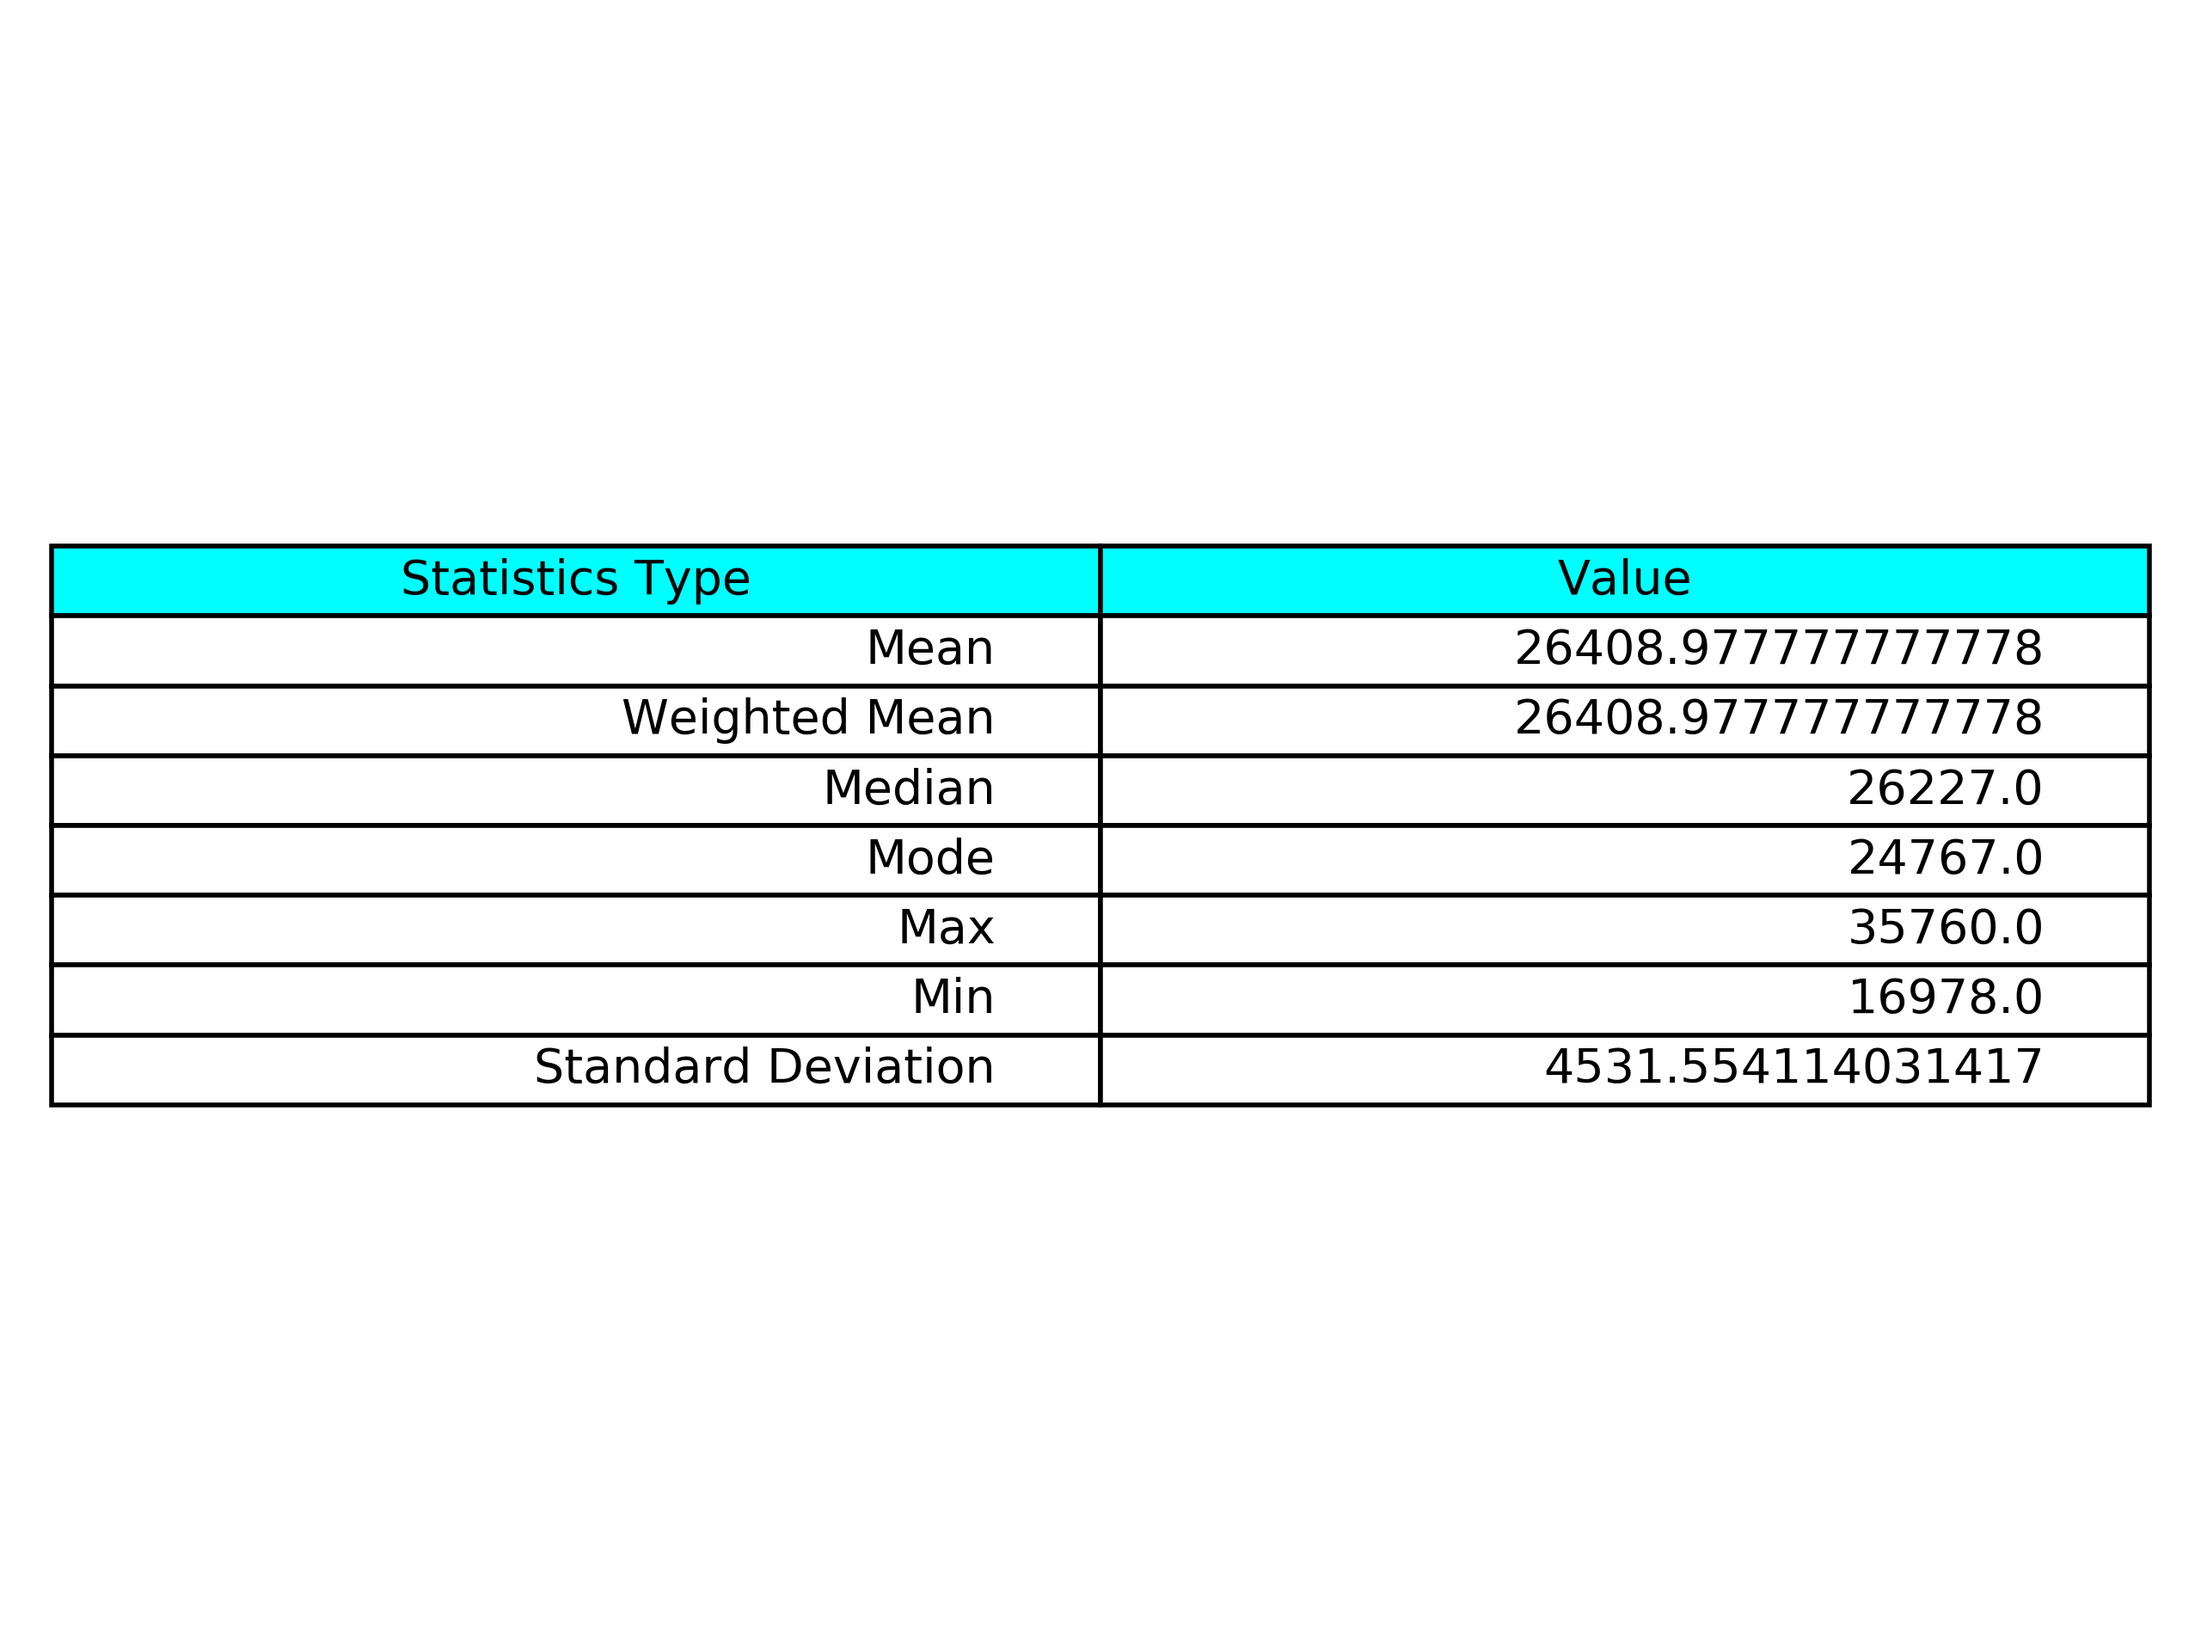
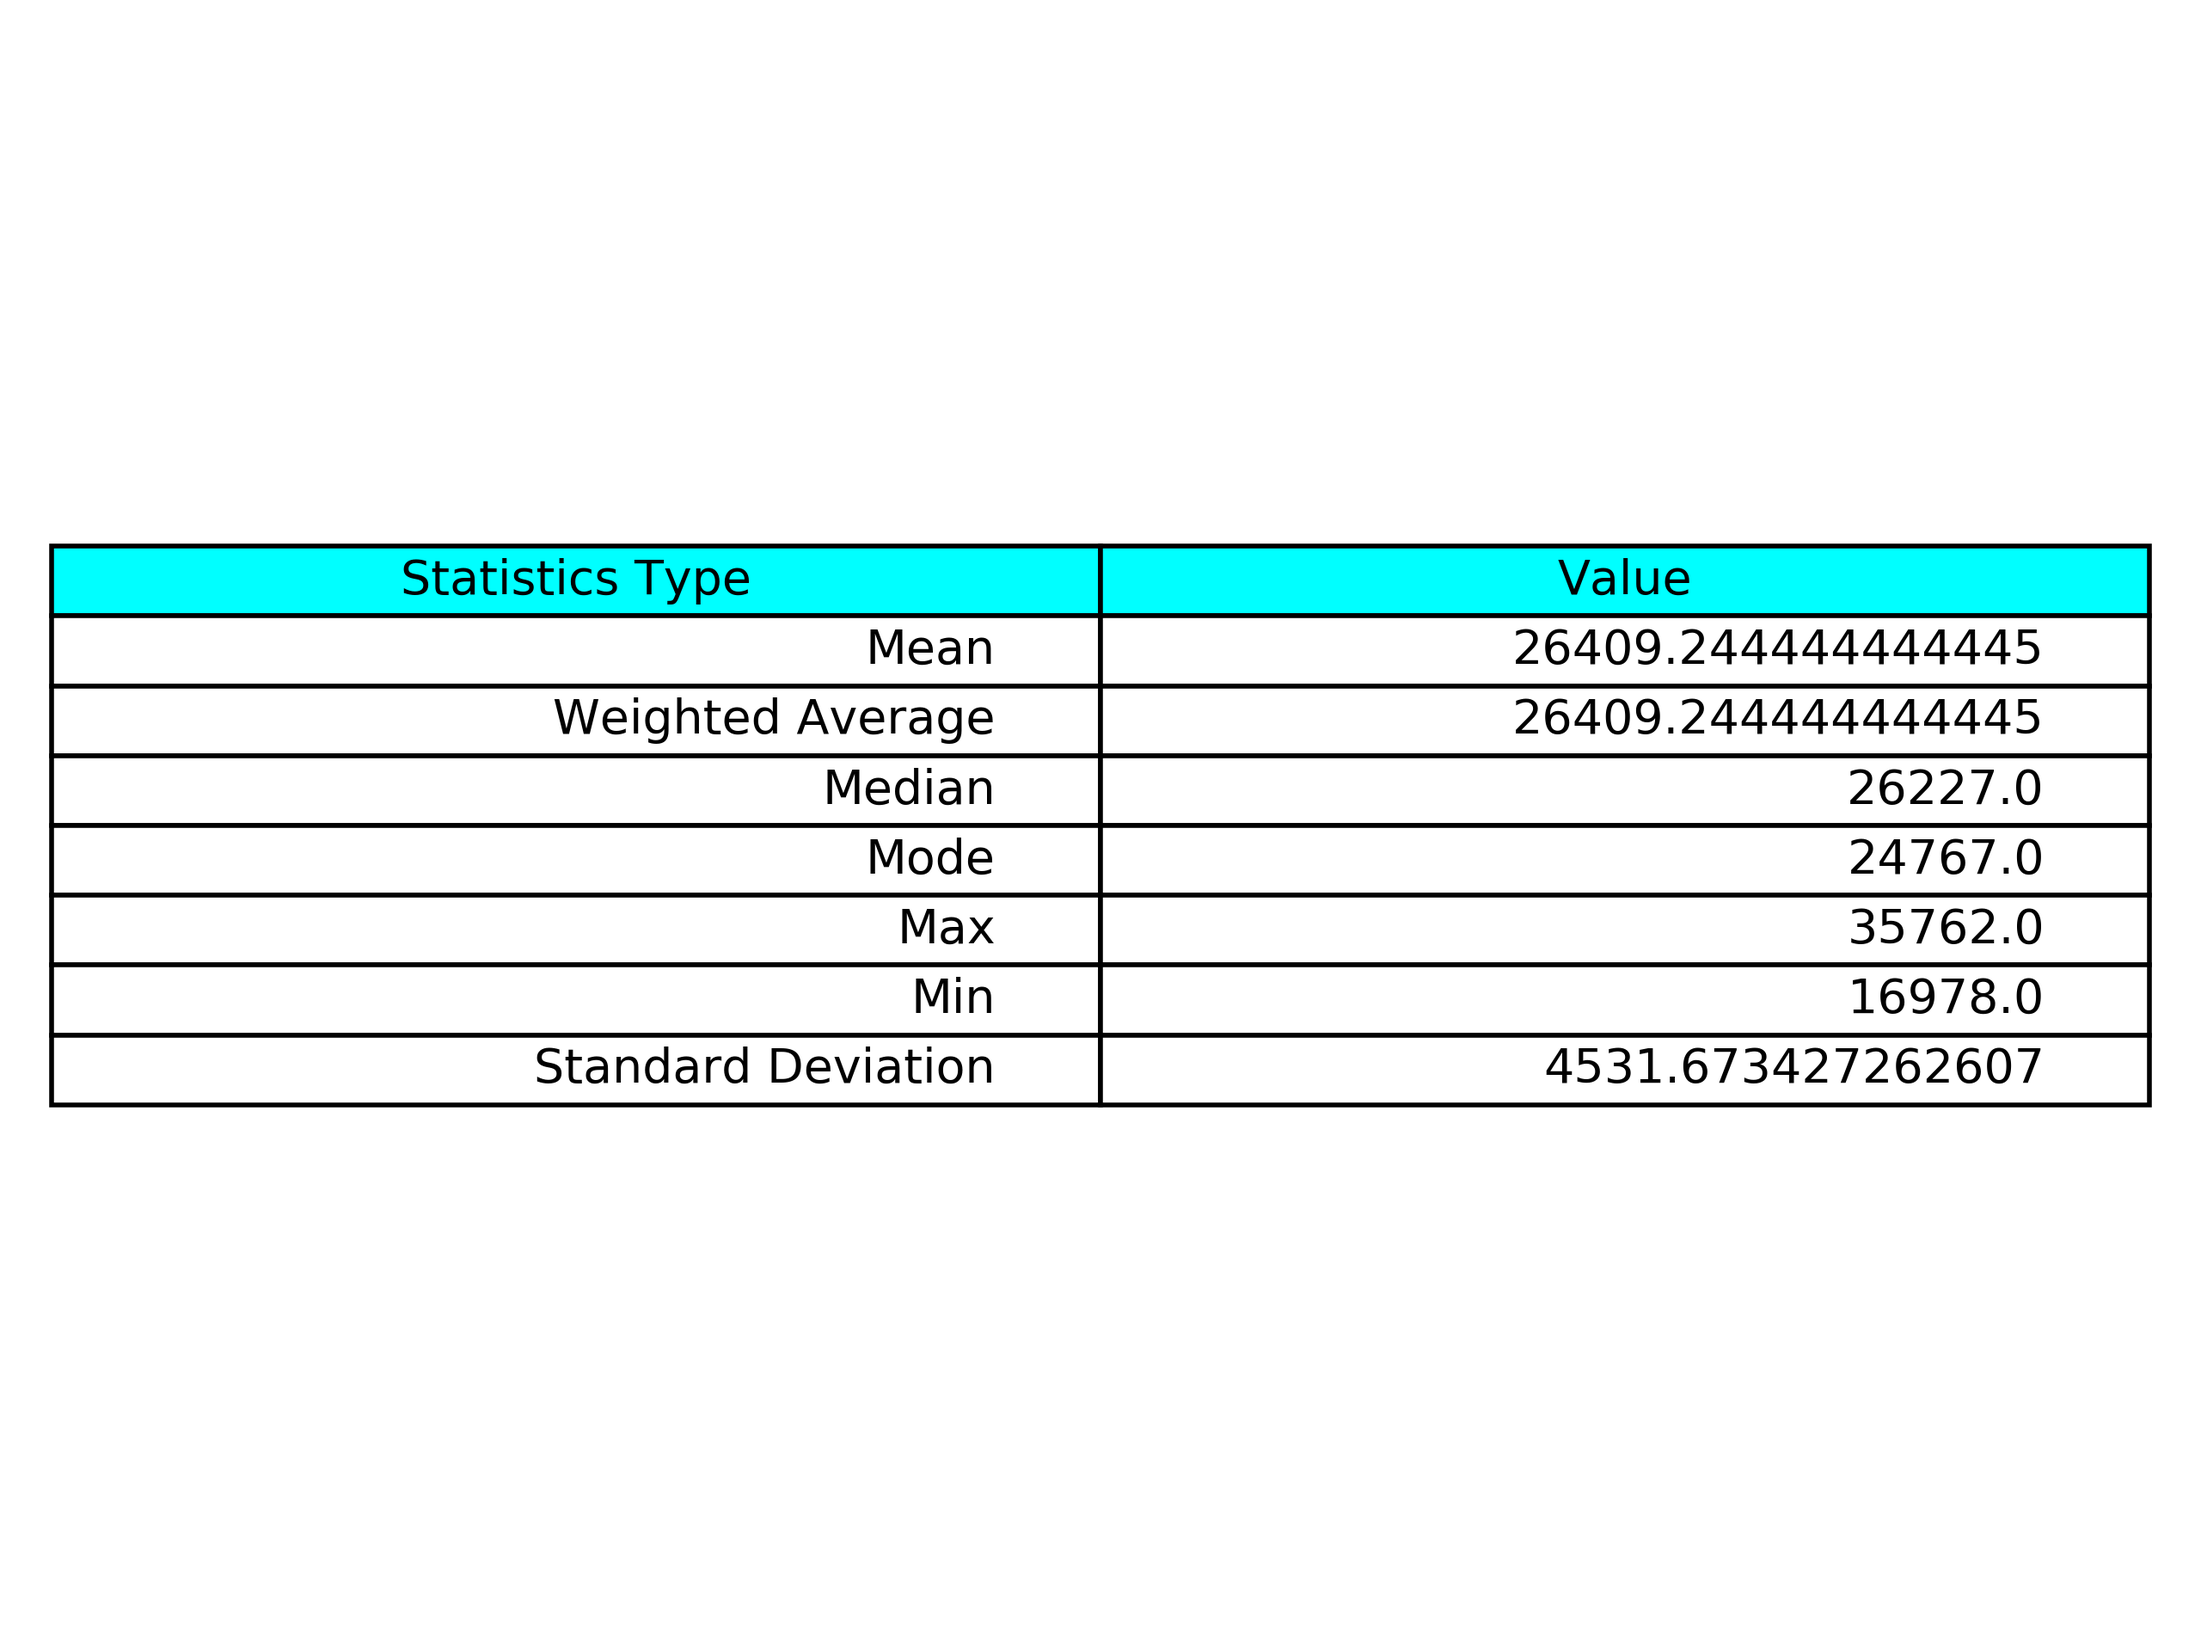
Updated graph

Changed region(s): [[0.6875, 0.375, 0.9375, 0.4688], [0.25, 0.4062, 0.4375, 0.4688], [0.75, 0.625, 0.9375, 0.6562]]

diff --git a/main.py b/main.py
@@ -1,6 +1,5 @@
 import csv
 import datetime as dt
-from turtle import color
 import pandas as pd
 import matplotlib.pyplot as plt
 from dateutil.relativedelta import relativedelta
@@ -19,14 +18,6 @@ def readCSVFile():
     return header, rows
 
 
-def addNewHeaders(header):
-    header.append('year_of_birth')
-    header.append('lived_years')
-    header.append('lived_months')
-    header.append('lived_days')
-
-    return header
-
 def getLivedDaysColumn(rows):
     daysCol = []
     for row in rows:
@@ -43,18 +34,15 @@ def getPresidentsName(rows):
     
     return name
 
-def populate_data(rows):
-
+def addData(rows):
     for row in rows:
         dob = row[1]
         try:
             birthObj = dt.datetime.strptime(dob, '%b %d, %Y')
         except ValueError:
-            # It didn't work with %b, try with %B
             try:
                 birthObj = dt.datetime.strptime(dob, '%B %d, %Y')
             except ValueError:
-                # Its not Jun or June, eeek!
                 raise ValueError("Date format doesn't match!")
         if dob == np.NaN:
             continue
@@ -65,40 +53,24 @@ def populate_data(rows):
             try:
                 deathObj = dt.datetime.strptime(dod, '%b %d, %Y')
             except ValueError:
-                # It didn't work with %b, try with %B
                 try:
                     deathObj = dt.datetime.strptime(dod, '%B %d, %Y')
                 except ValueError:
-                    # Its not Jun or June, eeek!
                     raise ValueError("Date format doesn't match!")
 
         birthYear = birthObj.year
         row.append(birthYear)
-        livedYears = getLivedYears(birthObj, deathObj)
+        if deathObj == ' ':
+            today_str = dt.datetime.strftime(dt.date.today(), '%b %d, %Y')
+            deathObj = dt.datetime.strptime(today_str, '%b %d, %Y')
+            
+        livedYears = relativedelta(deathObj, birthObj).years
         row.append(livedYears)
-        row.append(getLivedMonths(birthObj, deathObj, livedYears))
+        livedMonths = relativedelta(deathObj, birthObj).months + (livedYears * 12)
+        row.append(livedMonths)
         row.append(getLivedDays(birthObj, deathObj))
 
     return rows
-
-def getLivedYears(dob_obj, dod_obj):
-    effective_dod_obj = dod_obj
-
-    if (effective_dod_obj == ''):
-        today_str = dt.datetime.strftime(dt.date.today(), '%b %d, %Y')
-        effective_dod_obj = dt.datetime.strptime(today_str, '%b %d, %Y')
-
-    return (relativedelta(effective_dod_obj, dob_obj).years)
-
-
-def getLivedMonths(dob_obj, dod_obj, total_years):
-    effective_dod_obj = dod_obj
-
-    if (effective_dod_obj == ''):
-        today_str = dt.datetime.strftime(dt.date.today(), '%b %d, %Y')
-        effective_dod_obj = dt.datetime.strptime(today_str, '%b %d, %Y')
-
-    return (relativedelta(effective_dod_obj, dob_obj).months + (total_years * 12))
 
 
 def getLivedDays(dob_obj, dod_obj):
@@ -113,21 +85,23 @@ def getLivedDays(dob_obj, dod_obj):
     b = dt.datetime.strptime(b, '%b %d, %Y').date()
 
     return ((a - b).days)
+
 def printTable(header, list, name):
     fig, ax = plt.subplots()
 
     fig.patch.set_visible(False)
     ax.axis('off')
     ax.axis('tight')
-
+    headerLen = len(header)
     if name!='statistics.png':
         list.insert(0, header)
         df = pd.DataFrame(list[1:11], columns=header)
     else:
         list.insert(0, ['Statistics Type', 'Value'])
         df = pd.DataFrame(list[1:], columns=list[0])
+        headerLen = 2
 
-    ax.table(cellText=df.values, colLabels=df.columns, loc='center', colColours=(['cyan'] * len(header)))
+    ax.table(cellText=df.values, colLabels=df.columns, loc='center', colColours=(['cyan'] * headerLen))
 
     fig.tight_layout()
     plt.savefig(name, dpi=400)
@@ -137,14 +111,10 @@ def printTable(header, list, name):
 def plotGraph(x,y,list):
     ax = plt.gca()
 
-    # Rotating the X-axis values by 90 to make them visible
     ax.tick_params(axis='x', labelrotation=90)
 
-    # Filling color between the two values of Standard Deviation
-    #ax.fill_between(x, y_sd_min, y_sd_max, color='blue', alpha=0.15, label='Standard Deviation')
-
     plt.plot(x,y)
-    plt.axhline(y=list[0][1], label='Mean - '+ str(format(list[0][1], ".2f")), linestyle=':',color = "red")
+    plt.axhline(y=list[0][1], label='Mean - '+ str(format(list[0][1])), linestyle=':',color = "red")
     plt.axhline(y=list[2][1], label='Median - '+ str(format(list[2][1])), linestyle='-',color = "brown")
     plt.axhline(y=list[3][1], label='Mode - '+ str(format(list[3][1])), linestyle='dotted',color = "orange")
     plt.axhline(y=list[4][1], label='Max - '+ str(format(list[4][1])), linestyle='--',color = "green")
@@ -156,21 +126,25 @@ def plotGraph(x,y,list):
     plt.xticks(rotation = 90)
     plt.tick_params(axis='x', which='major', labelsize=8)
     legend = ax.legend(loc='lower left')
+    plt.savefig("graph.png", dpi=300)
     plt.show()
 
 def main():
     header, rows = readCSVFile()
     #print (rows)
+    header.append('year_of_birth')
+    header.append('lived_years')
+    header.append('lived_months')
+    header.append('lived_days')
 
-    header = addNewHeaders(header)
     #print ("--------------------")
-    rows = populate_data(rows)
+    rows = addData(rows)
     #print (rows)
-    leastLivedPrez = sorted(rows, key=itemgetter(8))
+    leastLivedPresidents = sorted(rows, key=itemgetter(8))
 
-    #printTable(header,leastLivedPrez, 'leastLived.png')
-    mostLivedPrez = sorted(rows, key=itemgetter(8), reverse=True)
-    #printTable(header,mostLivedPrez, 'mostLived.png')
+    printTable(header,leastLivedPresidents, 'leastLived.png')
+    mostLivedPresidents = sorted(rows, key=itemgetter(8), reverse=True)
+    printTable(header,mostLivedPresidents, 'mostLived.png')
 
     livedDays = getLivedDaysColumn(rows)
     presidentsName = getPresidentsName(rows)
@@ -194,7 +168,7 @@ def main():
     list.append(['Standard Deviation', standardDeviation])
     #printTable(header,list, 'statistics.png')
     plotGraph(presidentsName,livedDays, list)
-    print(list)
+    #print(list)
 
 
 main()
